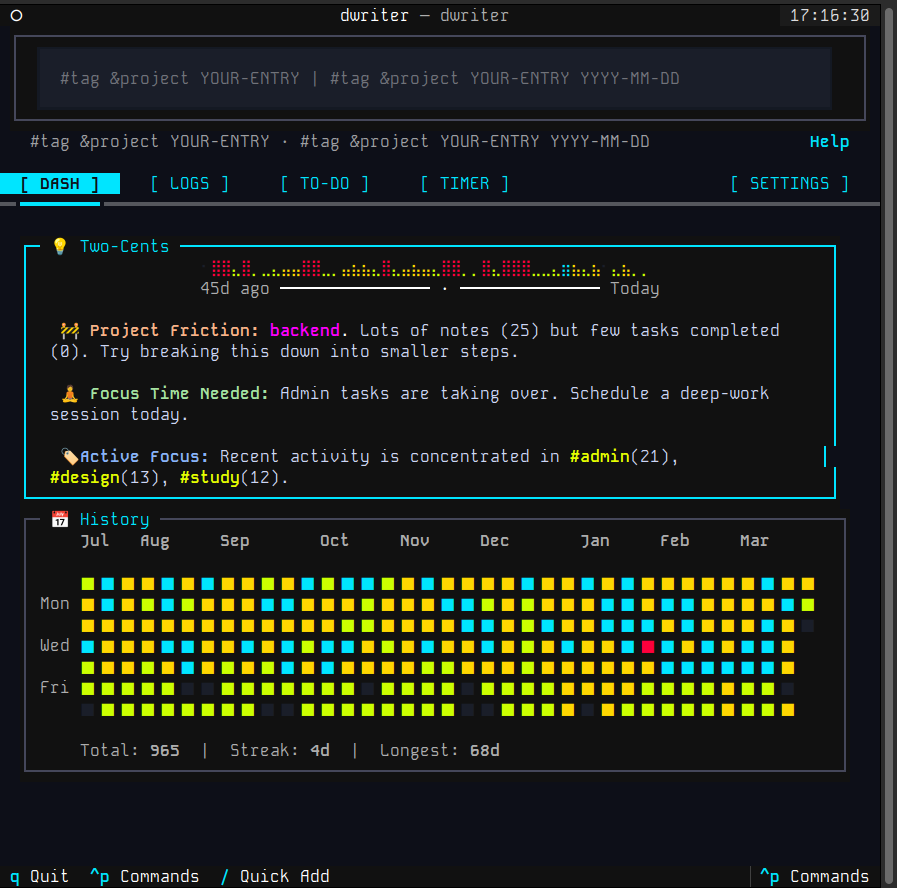
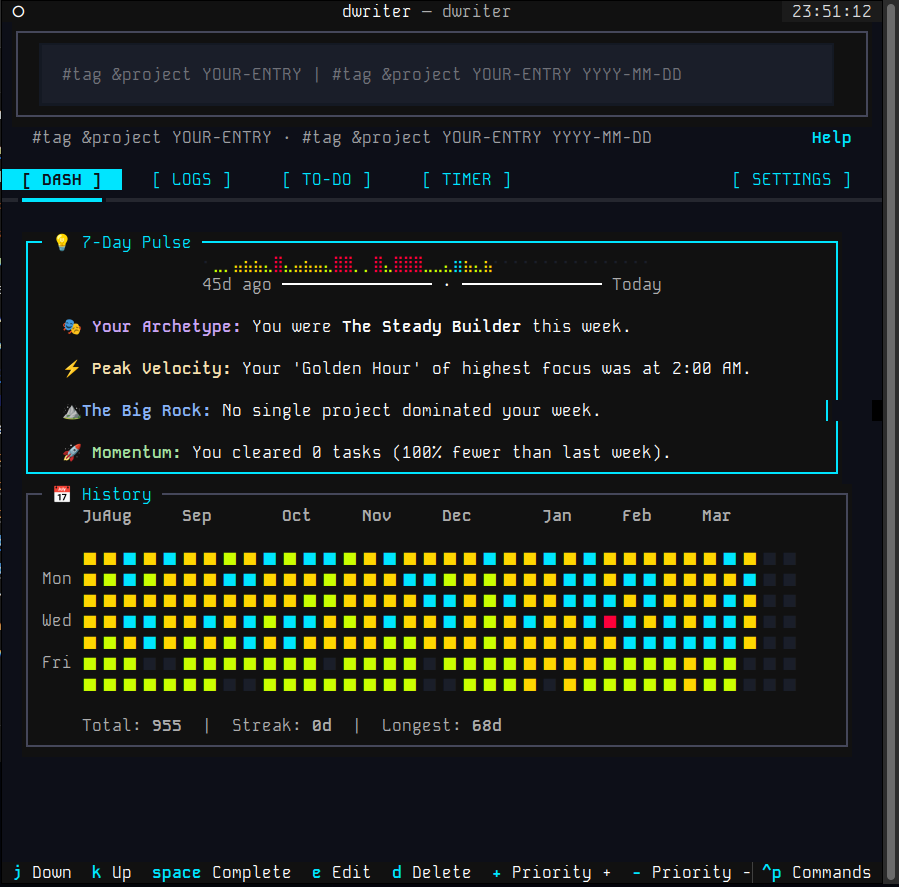
documentation revisions

diff --git a/src/dwriter/tui/screens/help_tui.py b/src/dwriter/tui/screens/help_tui.py
@@ -227,17 +227,17 @@ class HelpScreen(Screen):  # type: ignore[type-arg]
   → [bold]Streak & Record:[/bold] Real-time tracking of your current and all-time 
     longest logging streaks.
 
-[bold #cba6f7]Two-Cents (Behavioral Insights):[/bold #cba6f7]
-  [dim]The dashboard automatically analyzes your patterns to provide context.[/dim]
+[bold #cba6f7]7-Day Weekly Pulse (Behavioral Insights):[/bold #cba6f7]
+  [dim]The dashboard automatically analyzes your patterns to provide a 7-day retrospective.[/dim]
 
-  → [bold]Active Focus:[/bold] Highlights the tags and projects that have 
-    occupied most of your time over the last 30 days.
-  → [bold]High Focus Ratio:[/bold] Identifies when you are successfully 
-    maintaining deep work sessions.
-  → [bold]Project Fragmentation:[/bold] Alerts you when frequent context 
-    switching between too many projects may be impacting your throughput.
-  → [bold]Task Staleness:[/bold] Flags pending tasks that have been sitting 
-    unattended for more than 14 days.
+  → [bold]Archetypes:[/bold] Categorizes your productivity style (e.g., "The Deep Diver",
+    "The Closer") based on your rolling 7-day activity.
+  → [bold]Golden Hour:[/bold] Identifies your peak performance window—the time 
+    of day when you are most focused and productive.
+  → [bold]Velocity Delta:[/bold] Tracks your task clearing rate compared to 
+    the previous week to measure your current momentum.
+  → [bold]Project Spotlight:[/bold] Automatically detects the "Big Rock" project 
+    that consumed the majority of your bandwidth this week.
 
 [bold #cba6f7]Controls & Actions:[/bold #cba6f7]
   [cyan]c[/cyan]              → Copy Performance Report (Markdown format)

diff --git a/src/dwriter/tui/screens/dashboard.py b/src/dwriter/tui/screens/dashboard.py
@@ -19,7 +19,7 @@ from ..colors import PROJECT, TAG, get_icon
 
 
 class UnifiedPulsePanel(Static):
-    """Unified panel for activity heatmap and 'Two-Cents' insights."""
+    """Unified panel for activity heatmap and '7-Day Pulse' insights."""
 
     DEFAULT_CSS = """
     UnifiedPulsePanel {

diff --git a/documentation/USE_CASES.md b/documentation/USE_CASES.md
@@ -15,6 +15,8 @@ Baking and brewing are sciences of patience. Tracking temperatures and timings i
     ```
 *   **Visual Dashboard:** Three months later, search `&brew:pale-ale` to find the exact temperature that made that batch so crisp.
 
+**The Benefit: Scientific Consistency.** By tracking precise variables, you move from "getting lucky" with a batch to being able to replicate your best results or troubleshoot a failure with objective data.
+
 ## 🛠 2. The Maker's Build Log (Woodworking & Garden)
 Physical projects often span weeks. Keep a running narrative of your progress.
 
@@ -23,6 +25,8 @@ Physical projects often span weeks. Keep a running narrative of your progress.
     dwriter add "Applied first coat of tung oil to the desk &woodworking"
     ```
 *   **Visual Dashboard:** Use the **Activity Map** to see how much time you've dedicated to your craft this month.
+
+**The Benefit: Narrative Continuity.** Physical projects often have "dark periods" where progress feels slow. Seeing a log of small milestones provides the psychological momentum needed to finish complex builds.
 
 
 ## 🏆 3. The "Brag Document" for Performance Reviews
@@ -33,6 +37,8 @@ When performance reviews arrive, you'll have a complete list of your impact.
     dwriter add "Led the zero-downtime DB migration &career #milestone"
     ```
 
+**The Benefit: Objective Self-Advocacy.** Humans are prone to "recency bias." A year's worth of logs ensures you don't forget the high-impact work you did eleven months ago during your review.
+
 ## 🎓 4. The Student's Focus Tracker
 Manage assignments and study sessions without the clutter of a planner.
 
@@ -40,6 +46,8 @@ Manage assignments and study sessions without the clutter of a planner.
     ```bash
     dwriter todo "Submit History term paper !urgent &school"
     ```
+
+**The Benefit: Reduced Cognitive Load.** By offloading deadlines into a trusted system, you free up "working memory" to focus on the actual study material rather than the stress of remembering when it's due.
 
 ## 📰 5. The News Junkie's Personal Archive
 Build a searchable historical timeline of world events and your reactions.
@@ -50,6 +58,8 @@ Build a searchable historical timeline of world events and your reactions.
     ```
 *   **Visual Dashboard:** At the end of the year, run `dwriter review --days 365 &news` for a personal almanac.
 
+**The Benefit: Historical Perspective.** Tracking your real-time reactions to world events builds a personal almanac, helping you see patterns in how the world—and your perspective on it—changes over time.
+
 ## ✈ 6. The Traveler's Memory Journal
 When traveling, capturing small moments is better than writing long essays you'll never read.
 
@@ -58,6 +68,8 @@ When traveling, capturing small moments is better than writing long essays you'l
     dwriter add "Visited Little Island at Pier 55 &trip:nyc-2026"
     ```
 *   **Visual Dashboard:** Revisit your trip through a chronological log that feels like a film strip of your memories.
+
+**The Benefit: Curation over Completion.** Traditional journals can feel like a chore. Capturing small "bits" of information creates a vivid "film strip" of memories without the friction of long-form writing.
 
 ## 🏮 7. The Language Learner's Immersion Log
 Consistency is the only secret to learning a language.
@@ -68,6 +80,8 @@ Consistency is the only secret to learning a language.
     ```
 *   **Visual Dashboard:** Check your **Streak Counter** to stay motivated.
 
+**The Benefit: Visualizing Fluency.** Language learning is a "plateau" sport. Seeing your Streak Counter move and your total hours grow provides the proof of progress required to push through difficult learning phases.
+
 ## 🏋 8. The Fitness PR & Routine Tracker
 Typing in a bulky app at the gym is annoying. If you work from home, the terminal is your fastest workout log.
 
@@ -75,6 +89,8 @@ Typing in a bulky app at the gym is annoying. If you work from home, the termina
     ```bash
     dwriter add "Deadlift PR: 3x5 @ 315lbs #lifting &fitness"
     ```
+
+**The Benefit: Progressive Overload.** In fitness, if you aren't tracking, you aren't growing. Immediate logging ensures you know exactly what weight to beat in your next session.
 
 ## 📚 9. The Media, Book, & Article Log
 Create a "Second Brain" for everything you consume.
@@ -84,6 +100,8 @@ Create a "Second Brain" for everything you consume.
     dwriter add "Read Pragmatic Programmer Ch 2: Tracer bullets &books"
     ```
 
+**The Benefit: Active Consumption.** Logging a single takeaway transforms passive reading into active learning, significantly increasing your long-term retention of the material.
+
 ## 🧘 10. The Daily Gratitude & Reflection Journal
 A quiet space for evening reflection.
 
@@ -91,6 +109,8 @@ A quiet space for evening reflection.
     ```bash
     dwriter add "Grateful for the sunny weather today #gratitude"
     ```
+
+**The Benefit: Neuroplasticity.** Regularly logging gratitude "rewires" the brain to look for the positive aspects of your environment, lowering overall stress and improving baseline happiness.
 
 ## ☕ 11. The "Anti-Burnout" Protocol
 Enforce mandatory breaks during long coding sessions.
@@ -100,6 +120,8 @@ Enforce mandatory breaks during long coding sessions.
     dwriter timer "15 #screen-break"
     ```
 
+**The Benefit: Forced Deceleration.** High-focus workers often ignore physical cues of exhaustion. Using the timer to enforce breaks prevents the "diminishing returns" that happen during 4+ hour grinds.
+
 ## 💡 12. The Idea Inbox
 Don't let a random stroke of genius derail your current work.
 
@@ -107,6 +129,8 @@ Don't let a random stroke of genius derail your current work.
     ```bash
     dwriter add "Idea: build a moisture sensor for the garden &someday"
     ```
+
+**The Benefit: Distraction Management.** Capturing a "stroke of genius" the second it happens allows you to "park" the thought and return to your current task without the fear of losing the idea.
 
 ## 💧 13. Micro-Habit Stacking
 Turn dwriter into a minimalist habit tracker.
@@ -116,6 +140,8 @@ Turn dwriter into a minimalist habit tracker.
     dwriter todo "Drink 2L of water #habits"
     ```
 
+**The Benefit: Identity Building.** Every time you mark a habit as "done," you are casting a vote for the type of person you want to become, reinforcing a positive self-image through data.
+
 ## 🤝 14. The Manager's 1-on-1 Tracker
 Keep track of small wins and feedback for your team members.
 
@@ -123,6 +149,8 @@ Keep track of small wins and feedback for your team members.
     ```bash
     dwriter add "Sarah crushed the presentation today &team:sarah"
     ```
+
+**The Benefit: Contextual Leadership.** Having a searchable history of an employee's specific wins and challenges allows for much more meaningful, data-backed feedback during 1-on-1s.
 
 ## 💰 15. The Freelancer's Billing Engine
 Log your billable tasks as they happen.
@@ -132,6 +160,8 @@ Log your billable tasks as they happen.
     dwriter review --days 7 &client:acme --format markdown
     ```
 
+**The Benefit: Financial Integrity.** Real-time tracking eliminates the "best guess" approach to invoicing, ensuring you are paid for every minute of deep work while providing clients with transparent logs.
+
 ## 💼 16. The Job Hunter's Application Tracker
 Manage multiple interview threads and application dates.
 
@@ -139,6 +169,8 @@ Manage multiple interview threads and application dates.
     ```bash
     dwriter add "Applied for Senior Backend role at Stripe &jobs"
     ```
+
+**The Benefit: Managing Complexity.** Job hunting is a high-volume numbers game. Tracking threads centrally prevents "ball-dropping" and reduces the anxiety of managing multiple interview pipelines.
 
 ## 🐞 17. The "Pre-Jira" Bug Scratchpad
 Capture weird glitches before they become formal tickets.
@@ -148,6 +180,8 @@ Capture weird glitches before they become formal tickets.
     dwriter todo "Investigate the 500 error on checkout &bugs"
     ```
 
+**The Benefit: Flow Preservation.** Don't stop your current task to open a heavy project management tool. Drop the bug in dwriter to preserve your "flow state" and handle the formal ticket later.
+
 ## 🕒 18. The "Timesheet Savior" (Backdating)
 Fix your history if you forgot to log a session.
 
@@ -155,6 +189,8 @@ Fix your history if you forgot to log a session.
     ```bash
     dwriter add "Worked on auth hotfix" --date "last Sunday"
     ```
+
+**The Benefit: Historical Accuracy.** Life happens. The ability to backdate entries using natural language ensures your Activity Map remains a true reflection of your efforts, even if you forgot to log in the moment.
 
 ## 📝 19. Minimalist Meeting Notes
 Capture decisions and action items the second a meeting ends.
@@ -164,6 +200,8 @@ Capture decisions and action items the second a meeting ends.
     dwriter add "Decision: We are pushing the launch to Q3 &meetings"
     ```
 
+**The Benefit: Accountability.** Logging action items during the meeting closure ensures that verbal agreements are immediately transformed into a searchable commitment with a deadline.
+
 ## 💳 20. Expense & Subscription Auditing
 Track business software expenses for tax season.
 
@@ -171,6 +209,10 @@ Track business software expenses for tax season.
     ```bash
     dwriter add "Renewed GitHub Copilot for $100 #software &expenses"
     ```
+
+**The Benefit: Financial Awareness.** Small subscriptions are "death by a thousand cuts." Tracking them centrally makes it easy to audit your burn rate at the end of the quarter.
+
+> **Note:** For robust accounting, we recommend dedicated tools like hledger.
 
 ---
 

diff --git a/documentation/HEADLESS-README.md b/documentation/HEADLESS-README.md
@@ -83,20 +83,20 @@ Stop wasting time trying to remember what you did yesterday for your morning sta
 
 | Command | Description |
 | :--- | :--- |
-| `dwriter standup` | Generate a summary of yesterday's tasks. |
+| `dwriter standup` | Generate a summary of yesterday's tasks. Supports `--weekly` for a 7-day wrap-up. |
 | `dwriter review --days 7` | Generate a weekly report of all work. |
-| `dwriter stats` | View your streaks, activity counts, and habits. |
+| `dwriter stats` | View your streaks, activity counts, and habits. Supports `--weekly` for high-signal insights. |
 
 ### Formats for Every Platform:
 ```bash
 # Markdown for your personal notes
 dwriter standup --format markdown
 
-# Slack-friendly bullets
-dwriter standup --format slack
+# Include the 7-day Weekly Pulse retrospective
+dwriter standup --weekly
 
-# Jira-style formatting
-dwriter standup --format jira
+# View your weekly productivity summary (headless)
+dwriter stats --weekly
 ```
 
 ---

diff --git a/README.md b/README.md
@@ -73,7 +73,8 @@ Inside the dashboard, you can:
 - **✅ Add/Manage To-do's:** Keyboard-driven task board with priorities.
 - **⏱ Focus Timer:** A full-screen countdown that auto-logs your progress.
 - **🔍 Search/Edit/Review:** Live-filtering fuzzy search across all your history.
-- **📈 Activity Map:** Visualize your productivity streaks and habits and generate reports.
+- **📈 7-Day Weekly Pulse:** High-signal behavioral analytics (Archetypes, Golden Hour, Velocity Delta) updated every 24 hours.
+- **📅 Activity Map:** Visualize your productivity streaks and habits and generate reports.
 
 ![dwriter Focus Timer](screenshots/timer-tui_2.png)
 *Immersive Focus: The full-screen TUI timer designed for zero-distraction deep work.*
